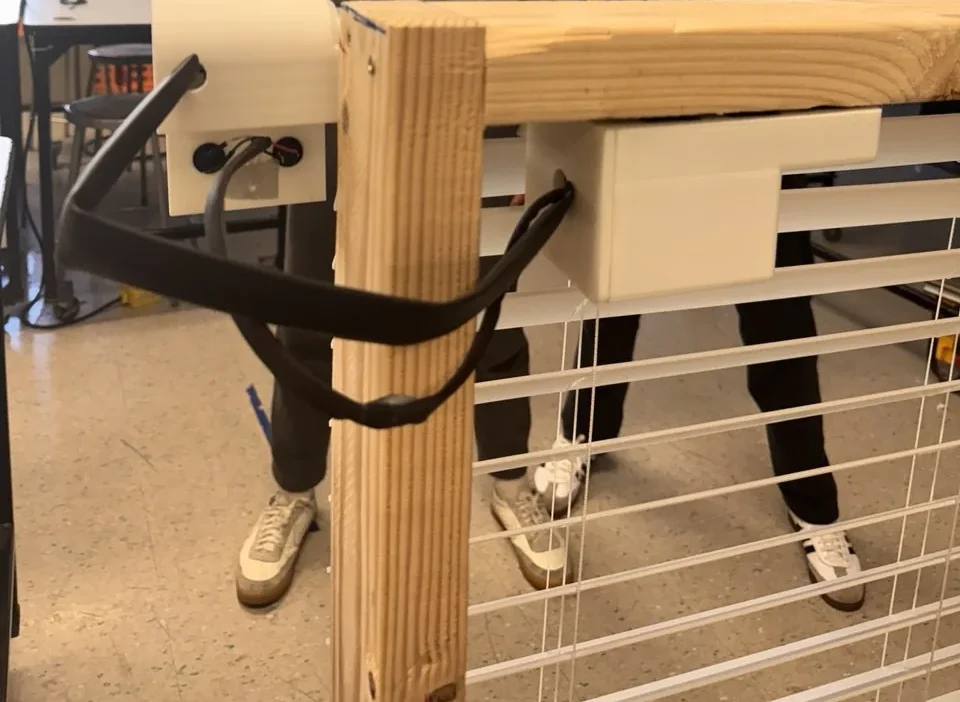
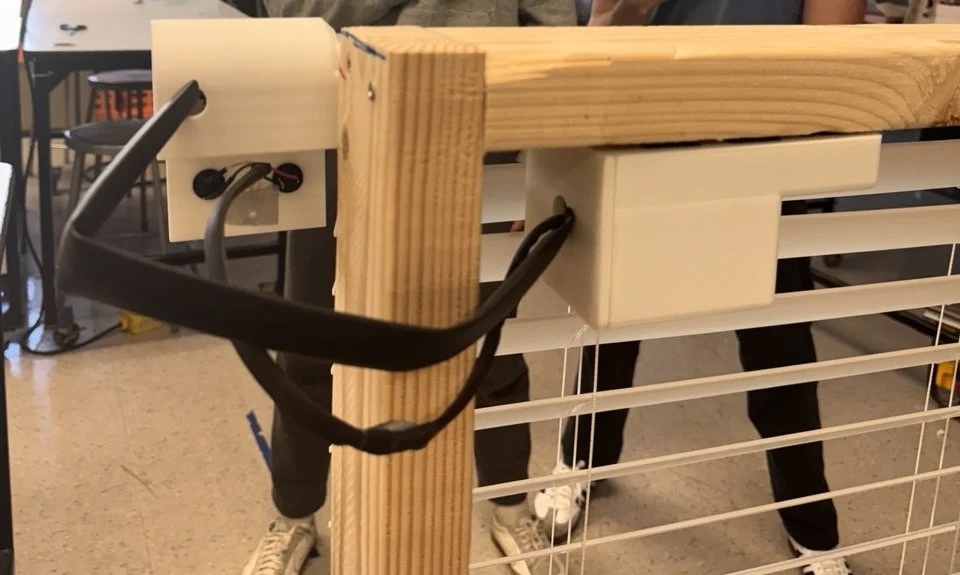
Blinds strip: use Dom's cropped rear photo and make all photos the same height
Claude-Session: https://claude.ai/code/session_01NmxhHwjJknT3asWGQHcwAu

diff --git a/index.html b/index.html
@@ -157,10 +157,9 @@ figcaption { margin-top: 9px; color: var(--mute); max-width: 44ch; }
 .strip { display: grid; grid-template-columns: repeat(4, minmax(0, 1fr)); gap: clamp(12px, 1.6vw, 24px); margin-top: clamp(36px, 6vh, 72px); }
 .strip .shot { aspect-ratio: 3 / 4; }
 .strip.three { grid-template-columns: repeat(3, minmax(0, 1fr)); }
-.strip.has-wide { grid-template-columns: repeat(5, minmax(0, 1fr)); }
-.strip .wide { grid-column: span 2; }
-.strip .wide .shot { aspect-ratio: auto; height: calc(100% - 3.2em); }
-.strip.has-wide figure { display: flex; flex-direction: column; } .strip.has-wide .wide .shot { flex: 1; height: auto; }
+.strip.fit { display: flex; align-items: flex-start; }
+.strip.fit figure { flex: var(--ar) 1 0; min-width: 0; }
+.strip.fit .shot { aspect-ratio: var(--ar); }
 
 /* drawings: live 3D on the page */
 .drawing { margin-top: clamp(40px, 7vh, 84px); display: grid; grid-template-columns: minmax(0, 7fr) minmax(0, 4fr); gap: clamp(20px, 3vw, 48px); align-items: start; }
@@ -249,8 +248,11 @@ figcaption { margin-top: 9px; color: var(--mute); max-width: 44ch; }
   .split, .split.rev, .drawing { grid-template-columns: minmax(0, 1fr); }
   .facts { grid-template-columns: minmax(0, 1fr); gap: 14px; }
   .strip { grid-template-columns: repeat(2, minmax(0, 1fr)); }
-  .strip.three, .strip.has-wide { grid-template-columns: repeat(2, minmax(0, 1fr)); }
-  .strip .wide .shot { aspect-ratio: 960 / 702; flex: none; }
+  .strip.three { grid-template-columns: repeat(2, minmax(0, 1fr)); }
+  .strip.fit { flex-wrap: wrap; }
+  .strip.fit figure { flex: 0 0 calc(50% - 6px); }
+  .strip.fit figure.landscape { flex-basis: 100%; order: 3; }
+  .strip.fit figure:last-child { order: 4; }
   .stage.drive, .stage.robot { aspect-ratio: 1 / 1; }
   .phone { max-width: 300px; }
 }
@@ -484,11 +486,11 @@ figcaption { margin-top: 9px; color: var(--mute); max-width: 44ch; }
           </div>
         </div>
 
-        <div class="strip has-wide">
-          <figure><div class="shot"><img loading="lazy" src="assets/blinds-drive.webp" width="960" height="1280" alt="Looking down into the head rail: a silver gearmotor with a hex shaft coupled to the white tilt mechanism"></div><figcaption class="note">Motor and hex shaft inside the head rail.</figcaption></figure>
-          <figure><div class="shot"><img loading="lazy" src="assets/blinds-housing.webp" width="960" height="1280" alt="White 3D printed button box with a green and a red button, at the end of the blind's head rail beside the slats"></div><figcaption class="note">The button box, beside the slats.</figcaption></figure>
-          <figure class="wide"><div class="shot"><img loading="lazy" src="assets/blinds-back.webp" width="960" height="702" alt="The test stand from behind: the back of the button box, a white printed box fixed under the top beam, the cable between them, and the slats"></div><figcaption class="note">From behind: the enclosure under the top beam, and the cable to the buttons.</figcaption></figure>
-          <figure><div class="shot"><img loading="lazy" src="assets/blinds-team.webp" width="960" height="1280" alt="Two students leaning on the finished blind and its wooden test stand in a classroom"></div><figcaption class="note">The finished prototype, and the team.</figcaption></figure>
+        <div class="strip fit">
+          <figure style="--ar:.75"><div class="shot"><img loading="lazy" src="assets/blinds-drive.webp" width="960" height="1280" alt="Looking down into the head rail: a silver gearmotor with a hex shaft coupled to the white tilt mechanism"></div><figcaption class="note">Motor and hex shaft inside the head rail.</figcaption></figure>
+          <figure style="--ar:.75"><div class="shot"><img loading="lazy" src="assets/blinds-housing.webp" width="960" height="1280" alt="White 3D printed button box with a green and a red button, at the end of the blind's head rail beside the slats"></div><figcaption class="note">The button box, beside the slats.</figcaption></figure>
+          <figure class="landscape" style="--ar:1.669"><div class="shot"><img loading="lazy" src="assets/blinds-back.webp" width="960" height="575" alt="The test stand from behind: the back of the button box, a white printed box fixed under the top beam, the cable between them, and the slats"></div><figcaption class="note">From behind: the enclosure under the top beam, and the cable to the buttons.</figcaption></figure>
+          <figure style="--ar:.75"><div class="shot"><img loading="lazy" src="assets/blinds-team.webp" width="960" height="1280" alt="Two students leaning on the finished blind and its wooden test stand in a classroom"></div><figcaption class="note">The finished prototype, and the team.</figcaption></figure>
         </div>
       </div>
     </article>
